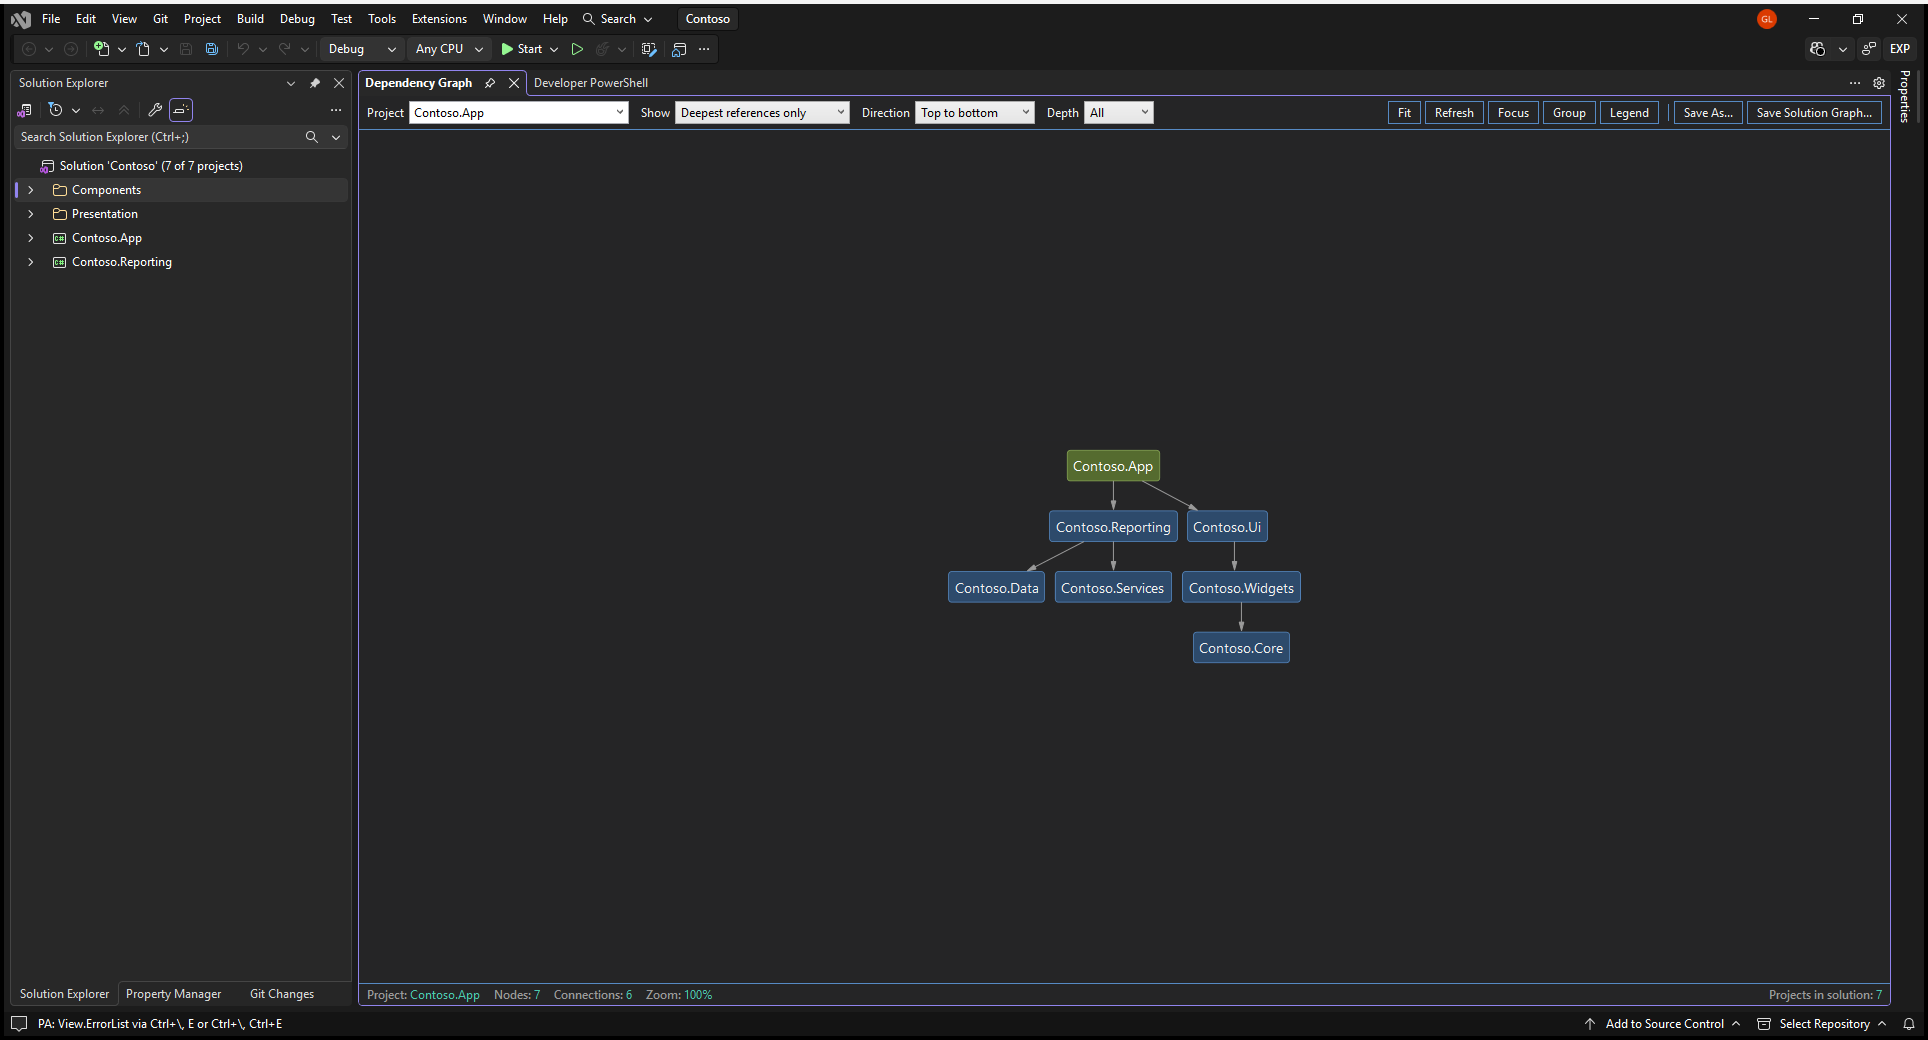
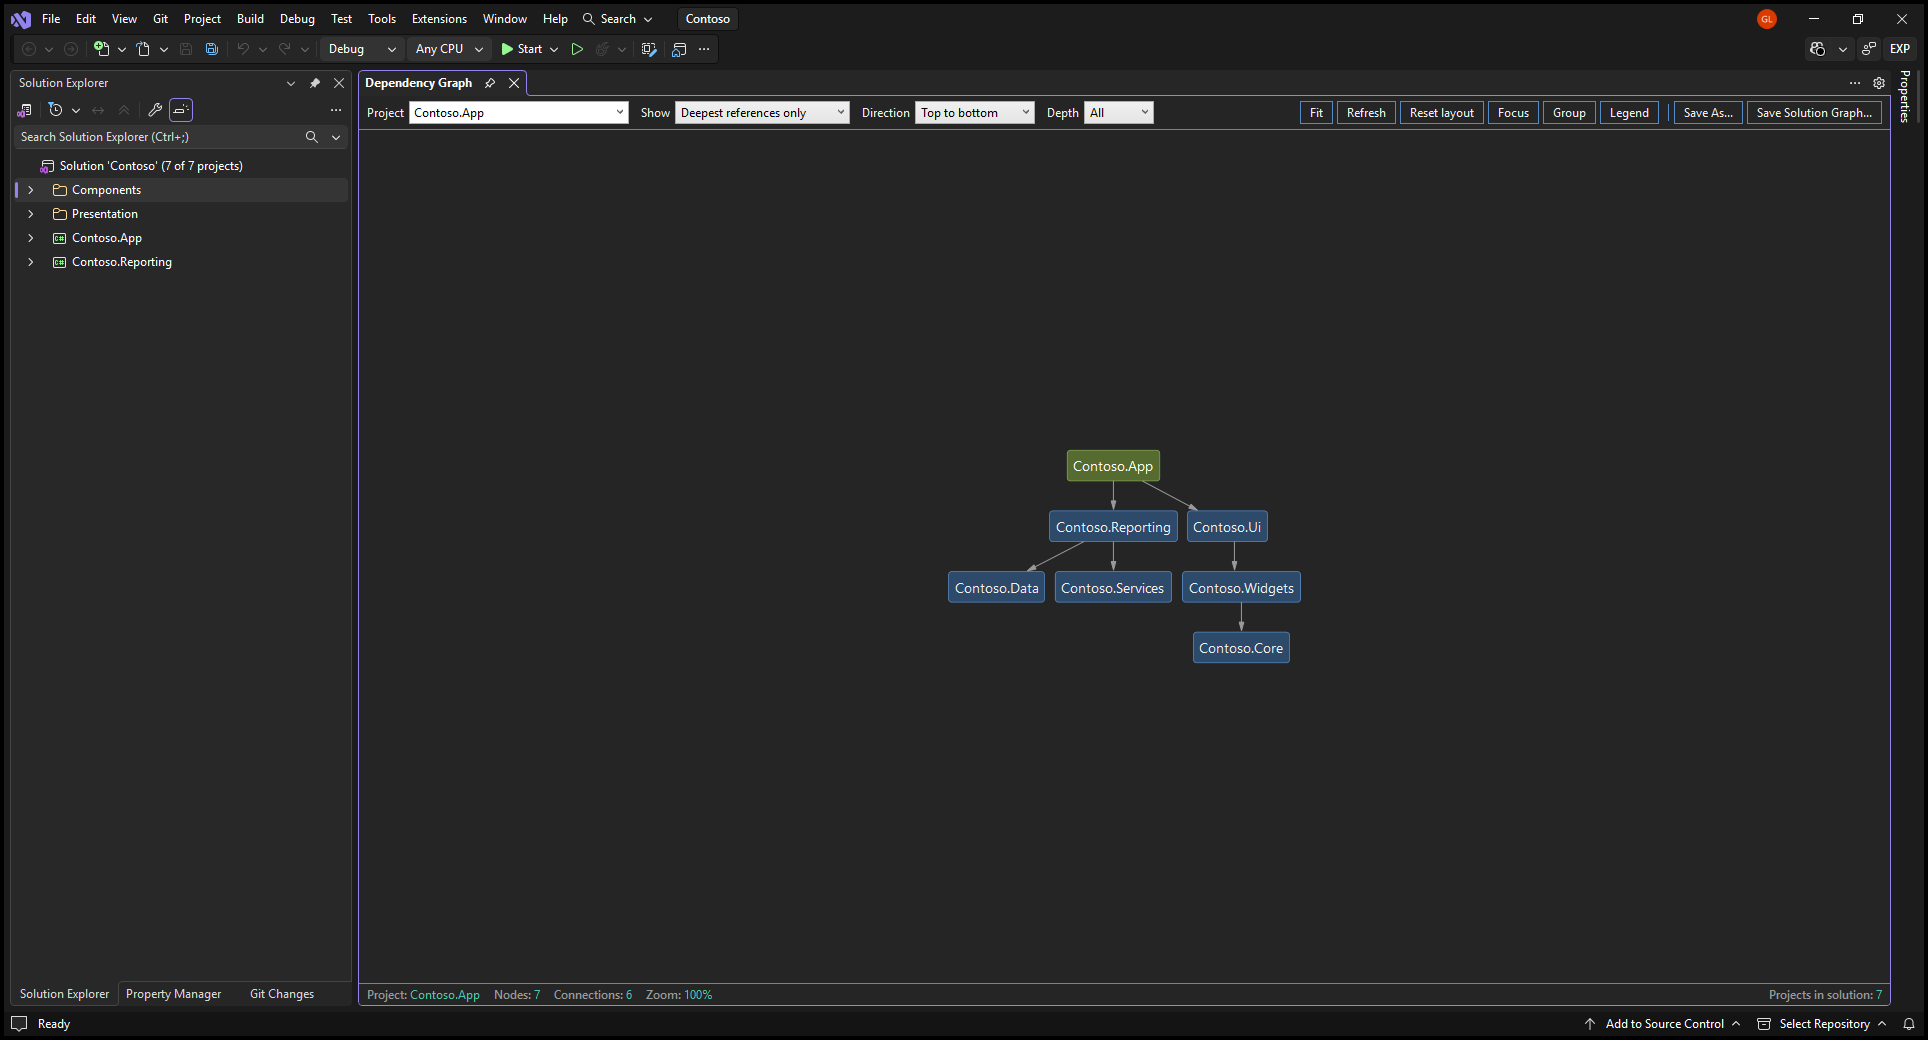
Add a Reset layout button
Dragged positions survive a rebuild by design, Refresh included, and the only
way back to the automatic layout was an item on the background right-click
menu - which there is no reason to go looking for. Reaching for Refresh and
finding it changed nothing is the obvious thing to do, and the obvious thing
was wrong.

Reset layout now sits next to Refresh on the command bar. It discards every
dragged position, deletes the stored file and lays the graph out again. The
context-menu item stays; this is the discoverable route to it.

It rebuilds even when nothing has been dragged, rather than returning early:
pressing a button and having nothing at all happen reads as broken, and
re-running the layout is exactly what the button says it does.

The two tooltips now draw the line between them. Refresh re-reads the solution -
which projects it has and what each one references - and says plainly that
anything dragged stays put, and that Reset layout is what puts it back. Reset
layout says the reverse: it moves things, it does not re-read anything. Same
split in the README's command bar table.

Verified in the experimental instance: with a node dragged, Refresh leaves it
where it is and Reset layout restores the automatic layout and removes the
stored offsets. Headline screenshot retaken so it shows the new button.

diff --git a/UI/DependencyGraphControl.xaml b/UI/DependencyGraphControl.xaml
@@ -94,7 +94,9 @@
                     <Button x:Name="Btn_ZoomFit" Style="{StaticResource BarButton}"
                             ToolTip="Zoom so the whole graph fits the window.&#10;It opens at 100% instead, which keeps the labels crisp.">Fit</Button>
                     <Button x:Name="Btn_Refresh" Style="{StaticResource BarButton}"
-                            ToolTip="Rescan the solution.&#10;Adding or removing a project is picked up on its own; use this after editing&#10;a project's references outside the IDE.">Refresh</Button>
+                            ToolTip="Re-read the solution: which projects it has, and what each one references.&#10;&#10;Adding or removing a project is picked up on its own, but changing a project's&#10;references is not - so use this after an Add Reference, or after editing a&#10;project file by hand.&#10;&#10;This is about the data, not the picture: anything you have dragged stays where&#10;you put it. Reset layout is what puts that back.">Refresh</Button>
+                    <Button x:Name="Btn_ResetLayout" Style="{StaticResource BarButton}"
+                            ToolTip="Throw away every node you have dragged and lay the graph out again.&#10;&#10;Dragged positions are otherwise kept - through a rebuild, through Refresh, and&#10;from one session to the next - so this is the way back to the automatic layout.&#10;&#10;Only affects where things are drawn; it does not re-read the solution.">Reset layout</Button>
 
                     <ToggleButton x:Name="Btn_Focus" Height="23" Padding="9,0" Margin="0,0,4,0"
                                   ToolTip="Narrow the graph to the projects you have picked.&#10;&#10;Ctrl+click two or more nodes, then switch this on: everything else is dropped&#10;and you are left with just those projects and the references between them.&#10;For getting a readable answer out of a solution with hundreds of projects.&#10;&#10;Only references directly between the projects you picked are drawn. If one&#10;reaches another through a project you did not pick, there is no arrow.&#10;&#10;Switch off to get the whole graph back.">Focus</ToggleButton>

diff --git a/UI/DependencyGraphControl.xaml.cs b/UI/DependencyGraphControl.xaml.cs
@@ -107,6 +107,7 @@ namespace DependencyGraph.UI
 
             Btn_ZoomFit.Click           += (s, e) => { _viewer.SetInitialTransform(); UpdateZoomIndicator(); };
             Btn_Refresh.Click           += (s, e) => Rescan();
+            Btn_ResetLayout.Click       += (s, e) => ResetPositions();
             Btn_Focus.Checked           += (s, e) => ApplyFocus();
             Btn_Focus.Unchecked         += (s, e) => { _focusKeys.Clear(); Rebuild(); };
             Btn_Group.Checked           += (s, e) => Rebuild();
@@ -174,7 +175,8 @@ namespace DependencyGraph.UI
             // Buttons and combo boxes each bring their own template with its own brushes, so
             // inheritance does not reach them.
             foreach (var button in new System.Windows.Controls.Primitives.ButtonBase[]
-                     { Btn_ZoomFit, Btn_Refresh, Btn_SaveAs, Btn_SaveSolutionDGML, Btn_Group, Btn_Focus })
+                     { Btn_ZoomFit, Btn_Refresh, Btn_ResetLayout, Btn_SaveAs, Btn_SaveSolutionDGML,
+                       Btn_Group, Btn_Focus })
             {
                 button.Foreground = brush;
                 button.Background = backBrush;
@@ -1089,13 +1091,21 @@ namespace DependencyGraph.UI
             return null;
         }
 
-        /// <summary>Puts everything back where the layout wants it.</summary>
+        /// <summary>
+        /// Puts everything back where the layout wants it.
+        /// </summary>
+        /// <remarks>
+        /// Rebuilds even with nothing dragged, rather than returning early. Pressing a button and
+        /// having it do nothing at all reads as broken, and re-running the layout is exactly what
+        /// the button says it does.
+        /// </remarks>
         private void ResetPositions()
         {
-            if (_dragOffsets.Count == 0) return;
+            bool had = _dragOffsets.Count > 0;
 
             _dragOffsets.Clear();
-            SaveStoredPositions();
+            if (had) SaveStoredPositions();
+
             Rebuild();
         }
 

diff --git a/README.md b/README.md
@@ -96,7 +96,8 @@ Solution Explorer and press **Refresh** to rescan.
 | **Direction** | `Top to bottom`, `Left to right`, `Bottom to top` or `Right to left`. |
 | **Depth** | `All`, or 1–6 levels. Limit this on a large solution. |
 | **Fit** | Zoom so the whole graph fits the window. |
-| **Refresh** | Rescan the solution — after adding a project or changing references. |
+| **Refresh** | Re-read the solution: its projects and what each one references. About the data, not the picture — anything you dragged stays put. |
+| **Reset layout** | Discard the nodes you have dragged and lay the graph out again. About the picture, not the data. |
 | **Focus** | Draw only the selected projects and the references between them. Ctrl+click nodes to select several. |
 | **Group** | Draw a box around each solution folder, named after it. Click the chevron on a box to fold that folder down to one shape. |
 | **Legend** | Show what the colours mean. |
@@ -137,7 +138,7 @@ project that was left out.
 | Drag the background | Pan |
 | Drag a node | Move it. Its references follow it, and nothing else shifts. |
 | Drag a folder box | Move the whole group - the box, the projects in it and their references. |
-| Right-click the background | **Reset dragged positions** - put everything back where the layout wants it. |
+| **Reset layout** | Put everything back where the layout wants it. Also on the background right-click. |
 | Mouse wheel | Zoom |
 | **Fit** | Fit the graph to the window |
 | Hover a node | A tooltip with its solution folder, reference counts and path |
@@ -227,7 +228,11 @@ survives a rebuild - changing view, direction or depth, pressing **Refresh**, co
 folder. An offset rather than a fixed coordinate on purpose: every rebuild is a fresh layout, and
 a coordinate from the previous one would put the node somewhere arbitrary in the new one.
 
-Right-click the background for **Reset dragged positions** to put everything back.
+**Reset layout** on the command bar puts everything back, and so does **Reset dragged positions**
+on the background right-click.
+
+Note that **Refresh** does not: it re-reads the solution, not the picture, and deliberately keeps
+what you have moved.
 
 Offsets are written to `%LOCALAPPDATA%\DependencyGraph\positions`, one small file per solution,
 so an arrangement survives closing the solution and closing Visual Studio. Nothing is written

diff --git a/docs/marketplace-overview.md b/docs/marketplace-overview.md
@@ -67,7 +67,7 @@ left.
 Automatic layout is a starting point. Drag a node, or a whole folder box, to where the graph
 reads better - its references follow it and nothing else moves. What you dragged is remembered
 across rebuilds, so changing view, direction or depth does not throw your arrangement away.
-Right-click the background to put everything back.
+**Reset layout** puts everything back.
 
 ## Circular references
 
